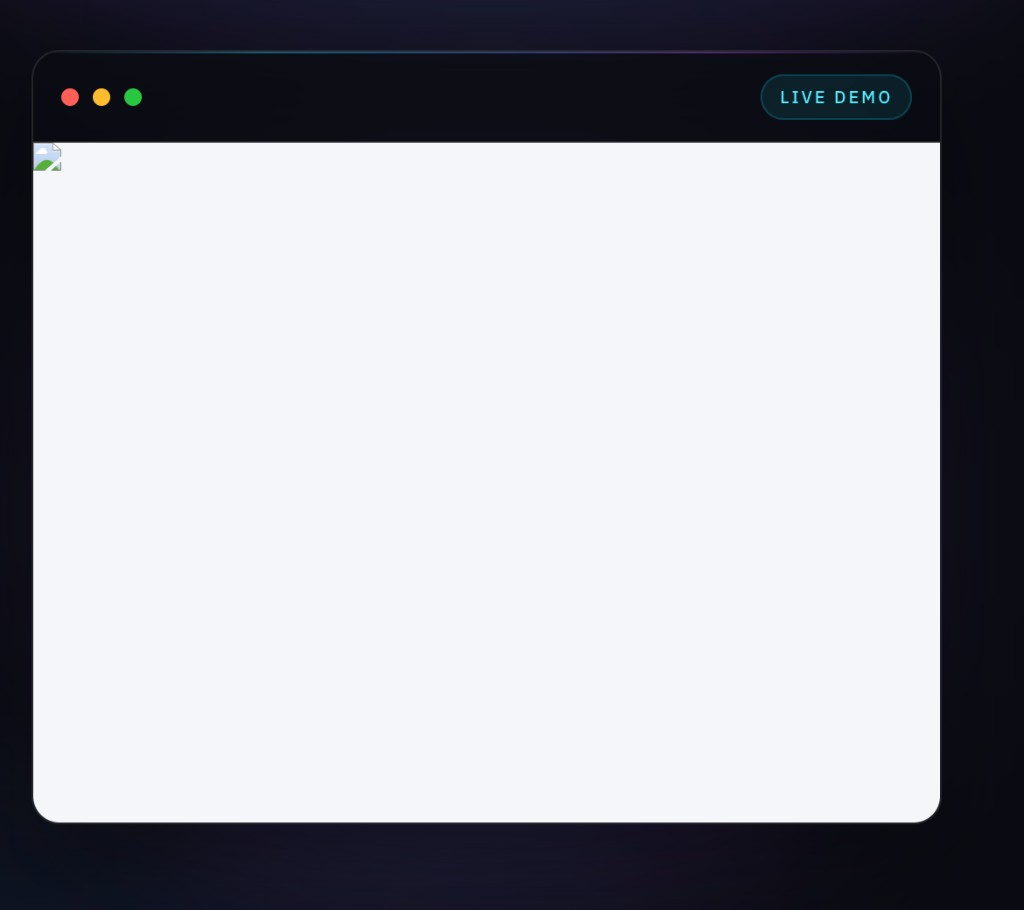
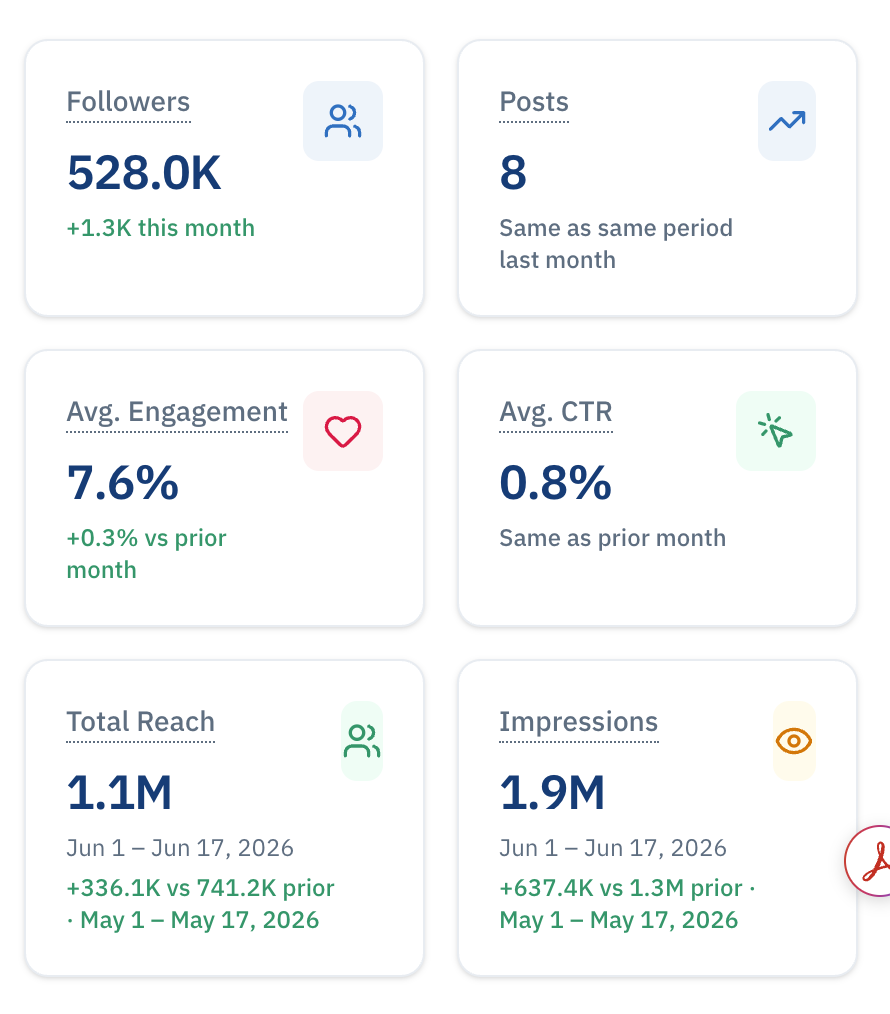
Replace hero mock with CEO analytics screenshot.
Use the uploaded Pfizer CEO metrics image in the hero preview, remove the old Narrative Score mock, and drop the services section from the homepage.

diff --git a/src/components/marketing/MarketingSite.tsx b/src/components/marketing/MarketingSite.tsx
@@ -23,19 +23,10 @@ import {
   VCF_DIFFERENTIATORS,
   VCF_FOUNDERS,
   VCF_NAV_LINKS,
-  VCF_SERVICES,
 } from "@/lib/vibecodeflow/content";
 import { getPfizerDemoUrl } from "@/lib/vibecodeflow/demo-urls";
 
 const capabilityIcons = [BarChart2, Zap, Users] as const;
-
-const serviceIcons = [
-  Sparkles,
-  BarChart2,
-  Globe,
-  Zap,
-  Users,
-] as const;
 
 const appIcons = [Building2, User, Globe] as const;
 
@@ -49,7 +40,6 @@ export function MarketingSite() {
       <main className="relative">
         <HeroSection />
         <DifferenceSection />
-        <ServicesSection />
         <PlatformSection />
         <DemosSection />
         <PricingContactSection />
@@ -189,60 +179,6 @@ function DifferenceSection() {
               </p>
             </article>
           ))}
-        </div>
-      </div>
-    </section>
-  );
-}
-
-function ServicesSection() {
-  return (
-    <section id="services" className="relative px-5 py-24 md:px-8">
-      <div className="mx-auto max-w-6xl">
-        <SectionHead
-          eyebrow="What we do"
-          title="Communications, end to end — regulatory-aware from word one."
-        />
-
-        <div className="grid gap-4 md:grid-cols-2">
-          {VCF_SERVICES.map(({ title, items }, index) => {
-            const Icon = serviceIcons[index];
-            return (
-              <article key={title} className="vcf-card group">
-                <div className="mb-5 flex items-start justify-between gap-4">
-                  <div
-                    className="flex h-11 w-11 items-center justify-center rounded-2xl ring-1 ring-white/10"
-                    style={{
-                      background:
-                        "linear-gradient(135deg, rgba(0,212,255,0.12) 0%, rgba(168,85,247,0.12) 100%)",
-                    }}
-                  >
-                    <Icon className="h-5 w-5 text-cyan-300" />
-                  </div>
-                  <span className="font-[family-name:var(--font-brand-mono)] text-xs text-white/25">
-                    0{index + 1}
-                  </span>
-                </div>
-                <h3 className="font-[family-name:var(--font-vcf-display)] text-xl font-semibold text-white">
-                  {title}
-                </h3>
-                <ul className="mt-4 space-y-2.5">
-                  {items.map((item) => (
-                    <li
-                      key={item}
-                      className="flex gap-2.5 text-sm leading-relaxed text-white/50"
-                    >
-                      <span
-                        className="mt-2 h-1 w-1 shrink-0 rounded-full"
-                        style={{ background: "var(--vcf-gradient)" }}
-                      />
-                      {item}
-                    </li>
-                  ))}
-                </ul>
-              </article>
-            );
-          })}
         </div>
       </div>
     </section>

diff --git a/src/components/marketing/HeroPreview.tsx b/src/components/marketing/HeroPreview.tsx
@@ -18,13 +18,14 @@ export function HeroPreview() {
           </span>
         </div>
 
-        <div className="relative aspect-[4/3] w-full bg-[#f4f6f9]">
+        <div className="relative aspect-[890/1014] w-full bg-[#f4f6f9]">
           <Image
             src={heroScreenshot}
             alt="CEO social analytics — followers, posts, engagement, reach, and impressions across LinkedIn and X"
             fill
-            className="object-cover object-center"
+            className="object-contain object-center"
             priority
+            unoptimized
             sizes="(max-width: 1024px) 100vw, 520px"
           />
         </div>

diff --git a/src/lib/vibecodeflow/content.ts b/src/lib/vibecodeflow/content.ts
@@ -2,7 +2,6 @@ export const VCF_CONTACT_EMAIL = "[email redacted]";
 
 export const VCF_NAV_LINKS = [
   { href: "#why", label: "Why us" },
-  { href: "#services", label: "Services" },
   { href: "#platform", label: "Platform" },
   { href: "#demos", label: "Live demos" },
   { href: "#contact", label: "Contact" },